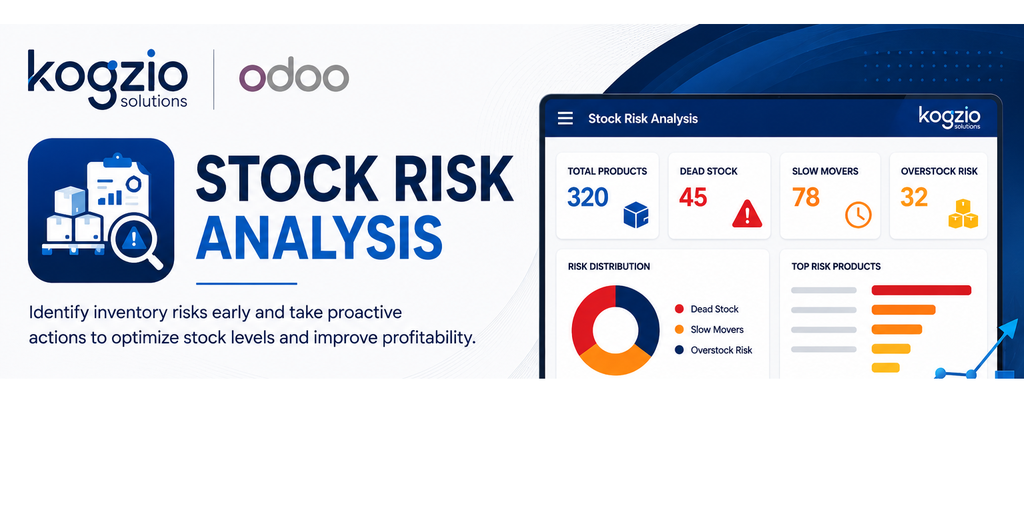
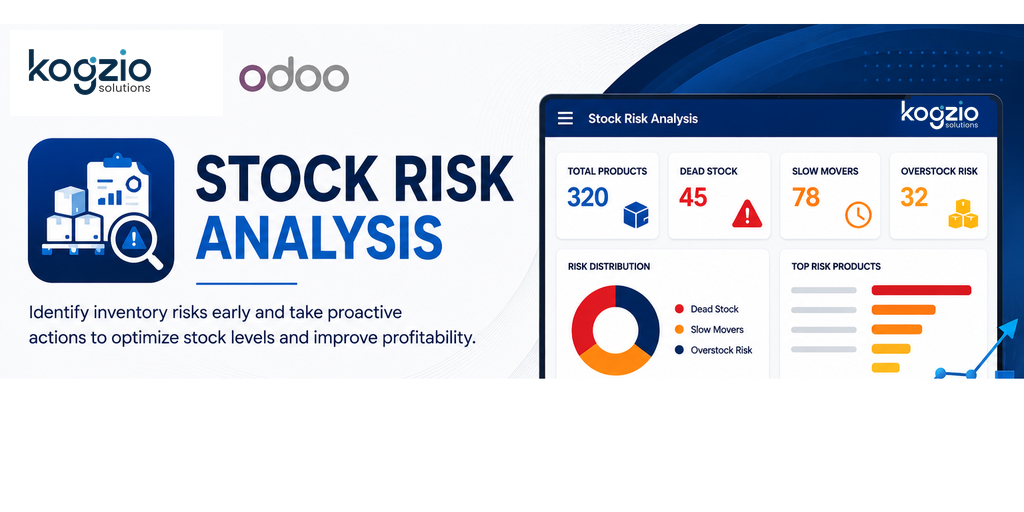
stock analysiss

Changed region(s): [[0.0312, 0.0938, 0.1875, 0.2188], [0.875, 0.1875, 0.9688, 0.25]]

diff --git a/kz_stock_risk_analysis/static/description/index.html b/kz_stock_risk_analysis/static/description/index.html
@@ -4,7 +4,7 @@
     <!-- LOGO -->
     <div class="oe_row oe_spaced"
          style="margin-bottom:20px; text-align:center;">
-        <img src="logo_light.jpeg"
+        <img src="logo_light.png"
              alt="Kogzio Solutions"
              style="display:block; width:auto; max-width:220px; height:auto; margin:0 auto;"/>
     </div>
@@ -342,7 +342,7 @@
         </h2>
 
         <div class="oe_span12" style="text-align:center;">
-            <img src="logo_light.jpeg"
+            <img src="logo_light.png"
                  alt="Kogzio Solutions"
                  style="
                     display:block;
